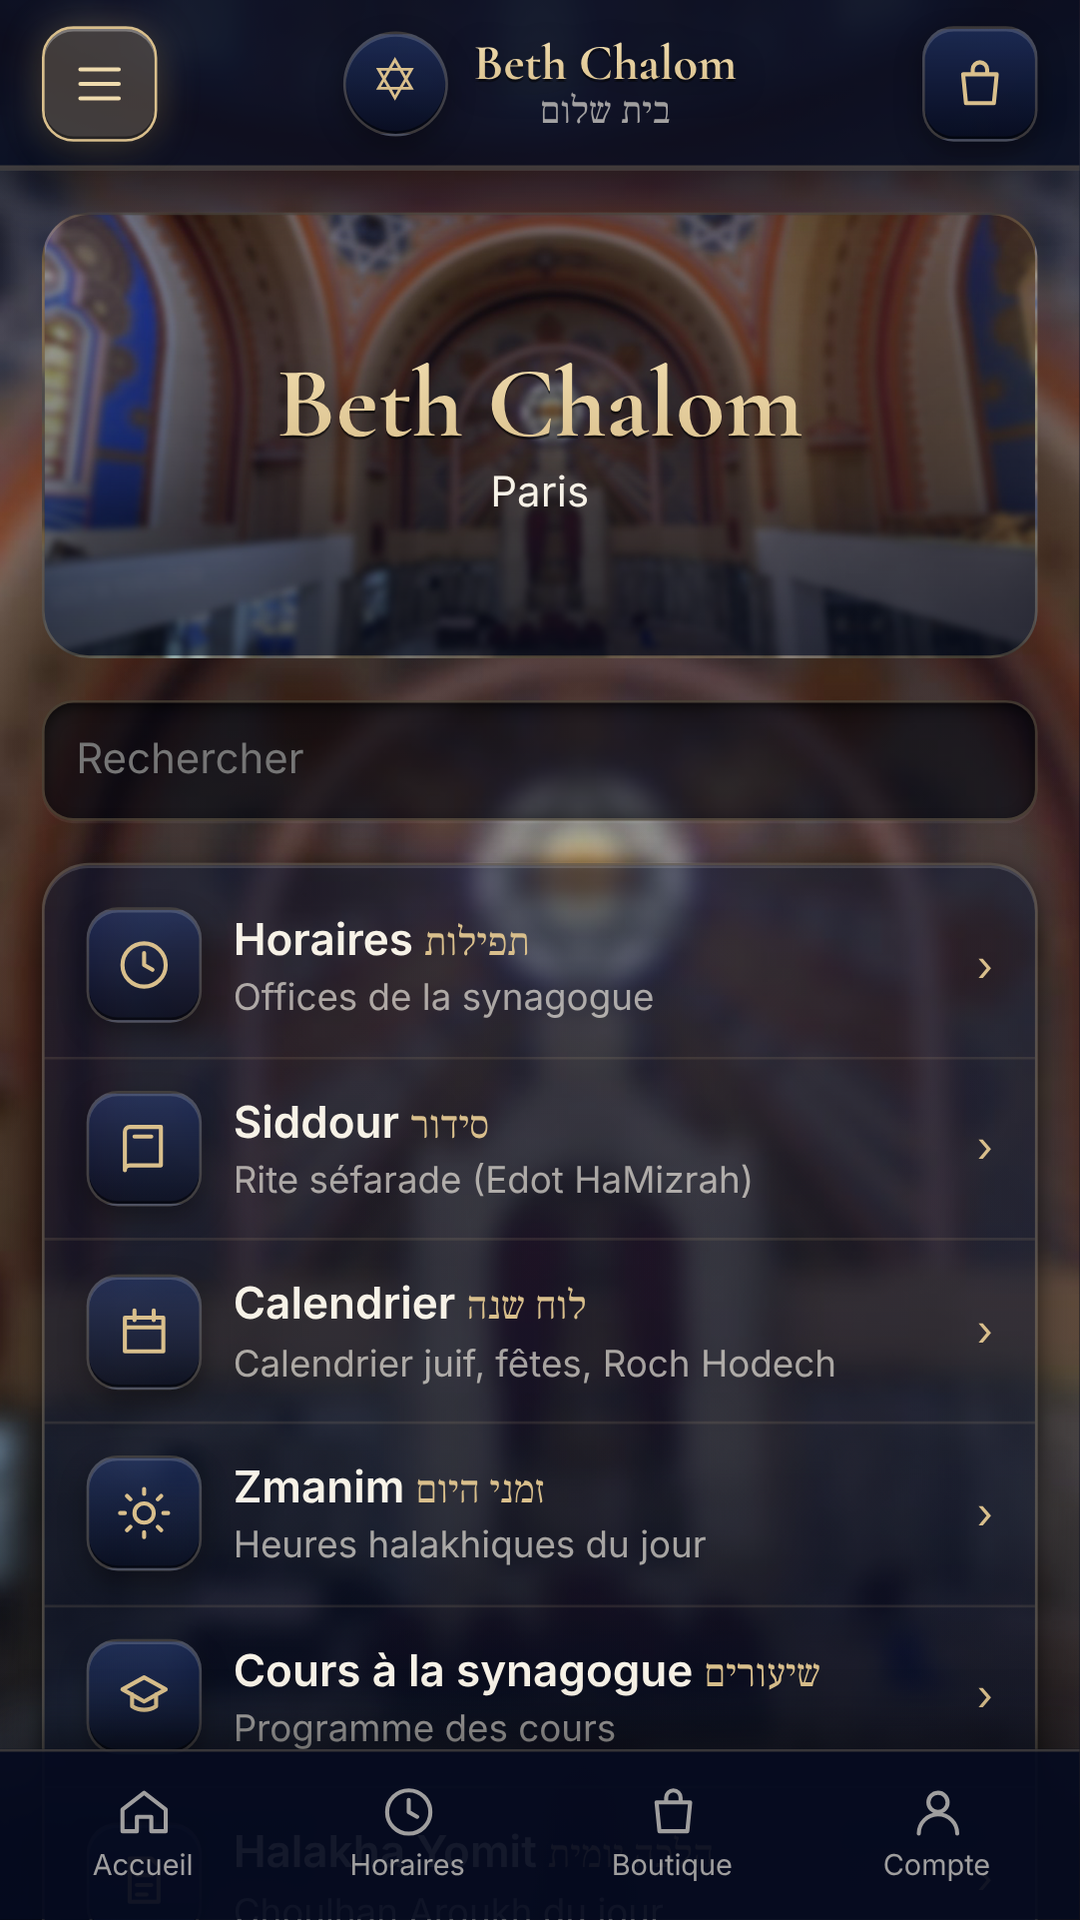
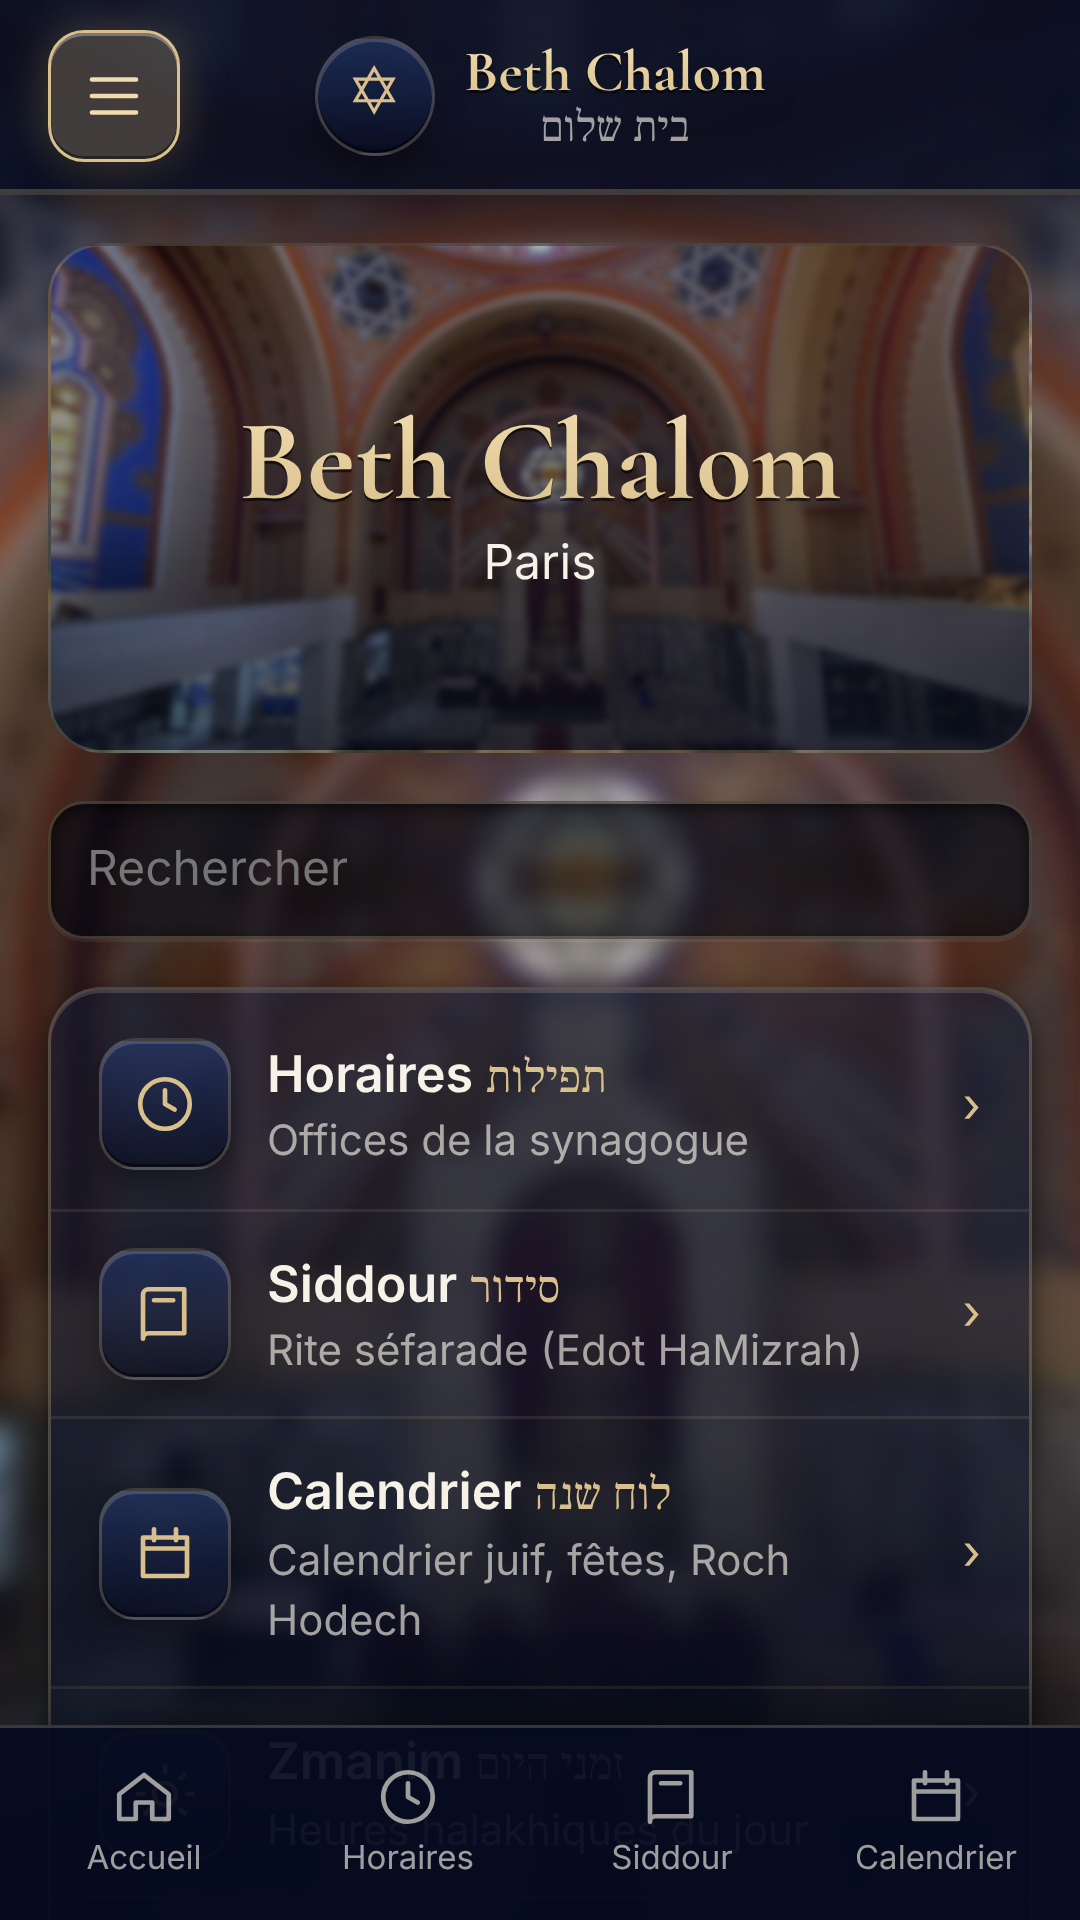
Captures stores : menu de la version simple, capture Dons retirée
Claude-Session: https://claude.ai/code/session_012mY1HUH7UXVhxEkoPG2ybE

diff --git a/store/fiche-play-store.md b/store/fiche-play-store.md
@@ -29,7 +29,7 @@ Les horaires sont les mêmes que sur l'écran de la synagogue et se mettent à j
 |---|---|
 | Icône de l'application (512 × 512) | icone-512.png |
 | Image de présentation (1024 × 500) | banniere-1024x500.png |
-| Captures d'écran du téléphone (2 à 8) | 01-accueil.png … 06-dons.png |
+| Captures d'écran du téléphone (2 à 8) | 01-accueil.png … 05-zmanim.png |
 
 ## Catégorie et coordonnées
 

diff --git a/store/fiche-app-store.md b/store/fiche-app-store.md
@@ -31,7 +31,7 @@ synagogue,zmanim,siddour,chabbat,horaires,offices,calendrier juif,halakha,parach
 
 ## Images (dossier store/ios)
 
-Captures iPhone 6,9 pouces (1320 × 2868) : 01-accueil.png … 06-dons.png
+Captures iPhone 6,9 pouces (1320 × 2868) : 01-accueil.png … 05-zmanim.png
 (App Store Connect les réutilise pour les autres tailles d'iPhone.)
 
 ## Informations de l'app
